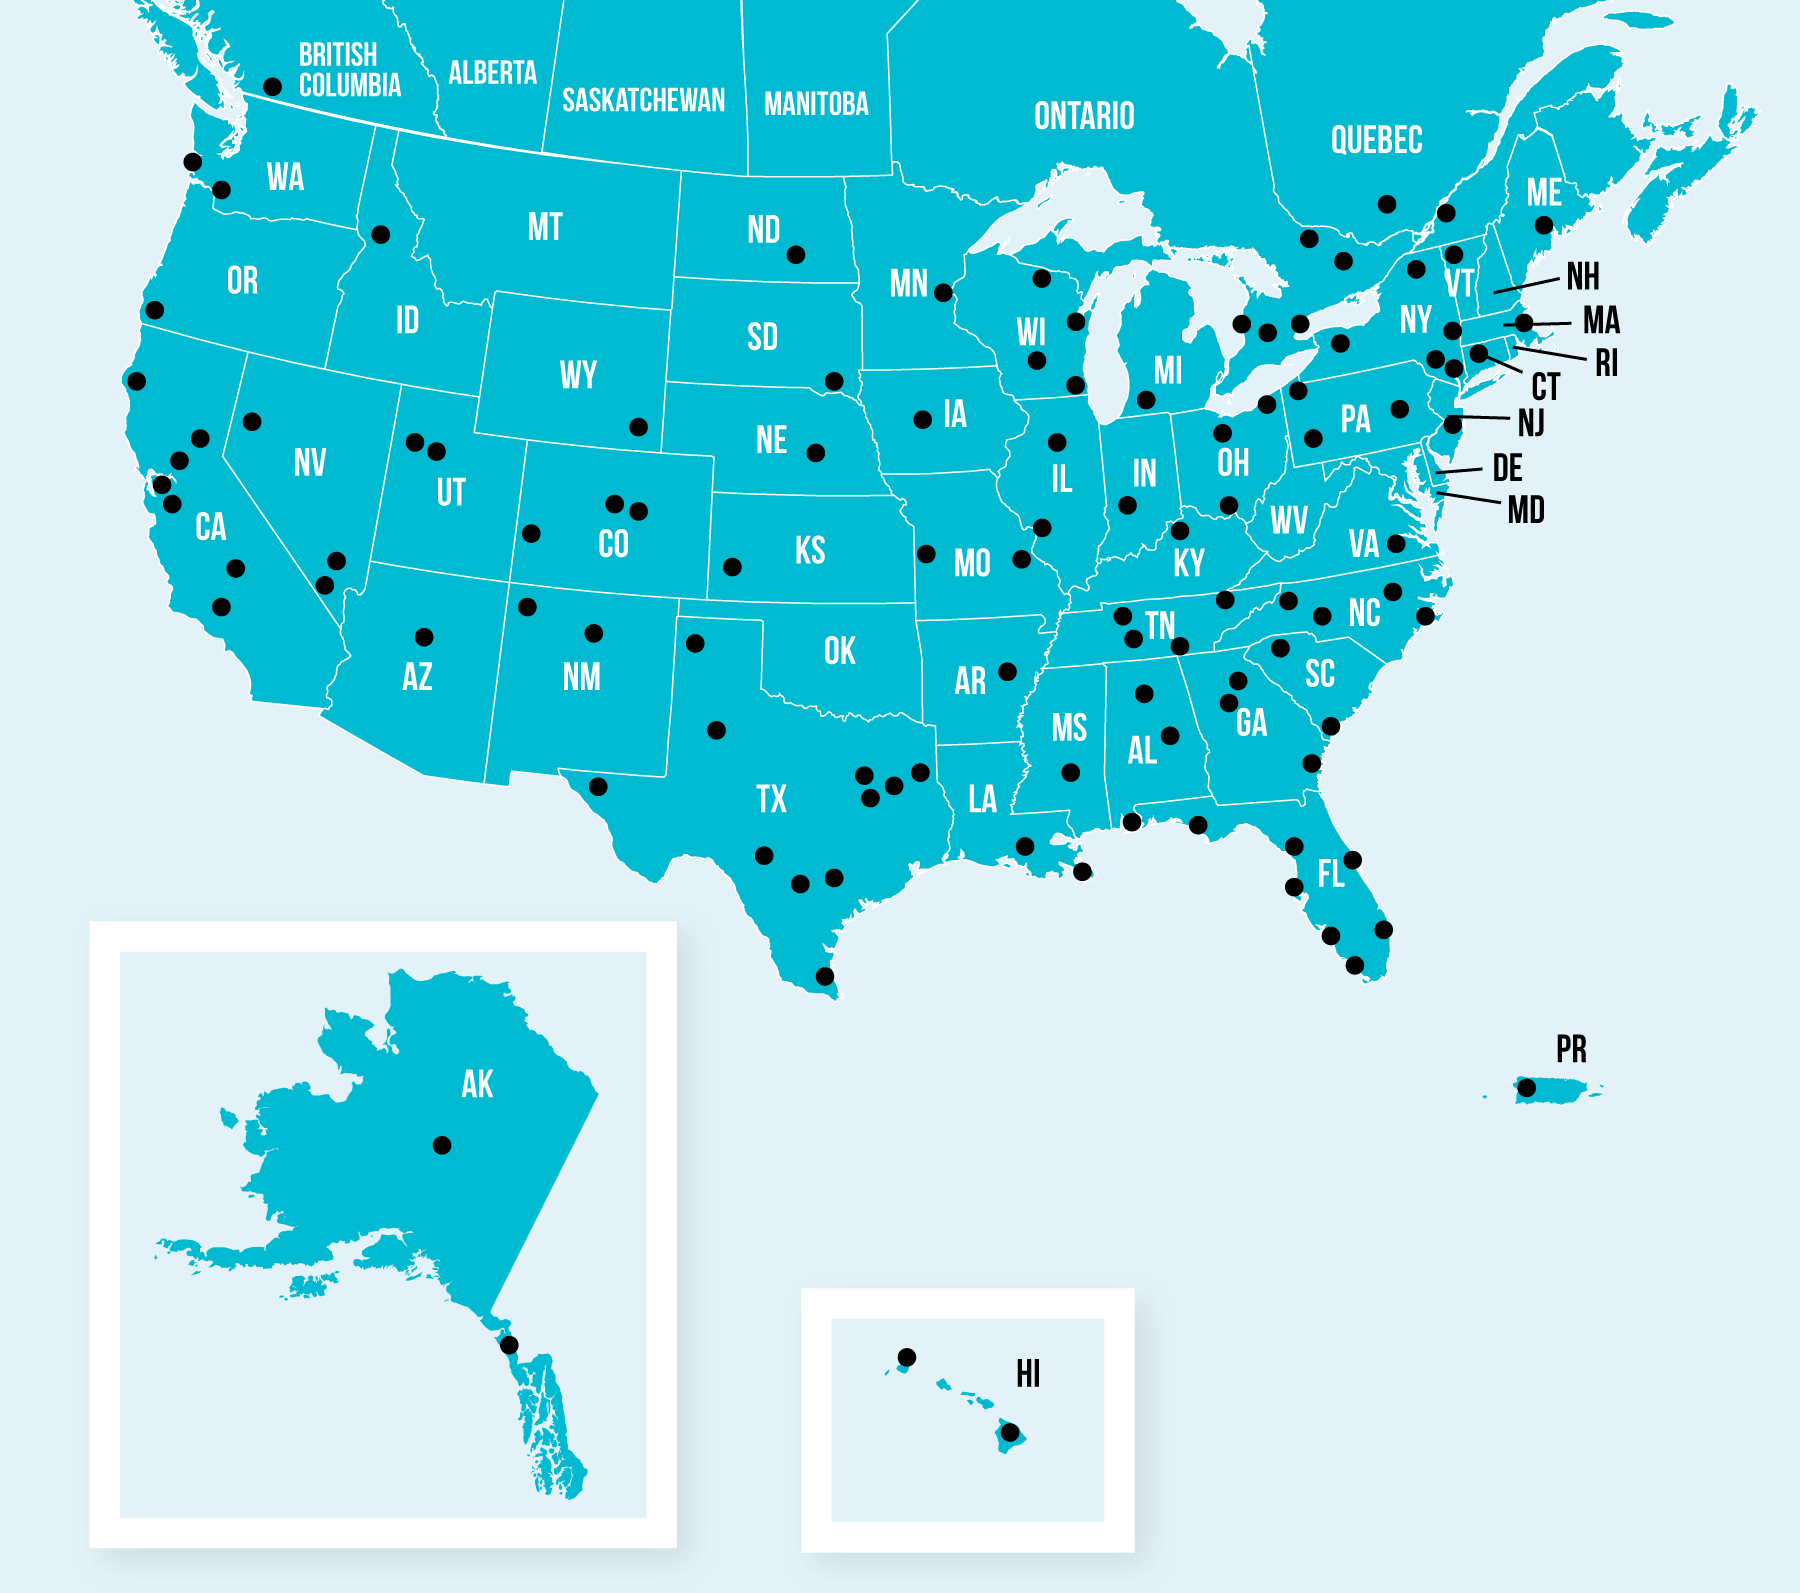
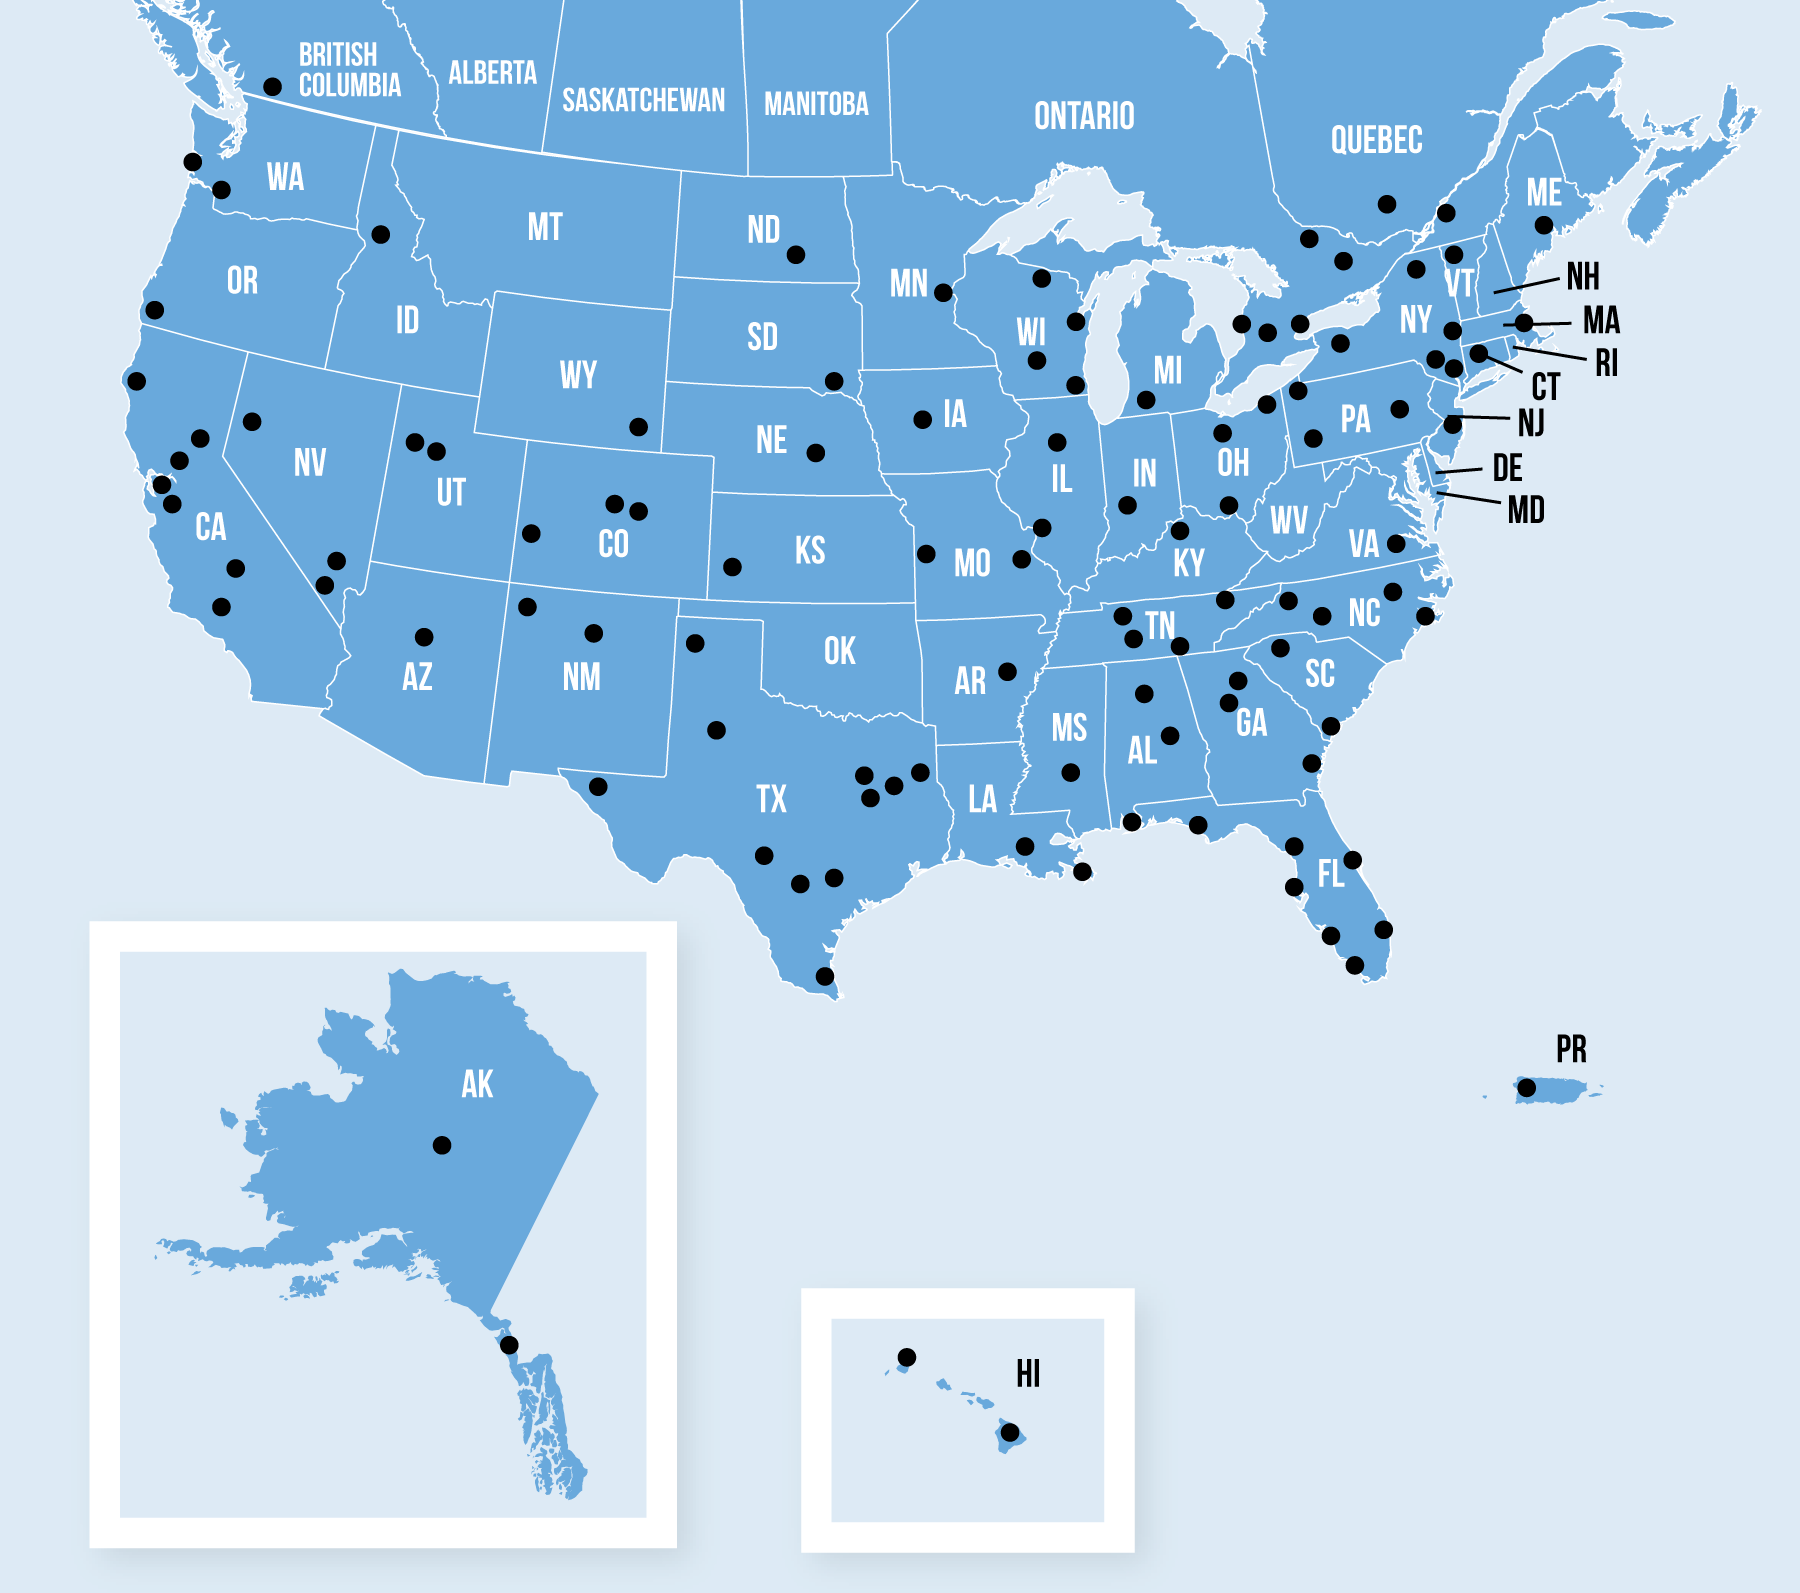
remove images, add images, css

diff --git a/css/main.css b/css/main.css
@@ -6092,13 +6092,13 @@ label[data-error="wrong"]:after {
     display: block;
     width: 72px;
     height: 72px;
-    background: #F68B55 url(../images/icon-arrow-up.svg) no-repeat scroll center center;
+    background: #c4c4c4 url(../images/icon-arrow-up.svg) no-repeat scroll center center;
     background-size: 26px auto;
     text-align: center;
     border-radius: 100%; }
     /* line 29, ../sass/components/_footer.scss */
     .section-footer a.back-to-top:hover {
-      background-color: #f36a25; }
+      background-color: #ababab; }
   /* line 34, ../sass/components/_footer.scss */
   .section-footer.section {
     padding: 4% 0; }
@@ -6179,14 +6179,14 @@ li a.active {
   -moz-transition: all 0.2s ease-in;
   -o-transition: all 0.2s ease-in;
   transition: all 0.2s ease-in;
-  color: #1C3F95;
+  color: #2e7bd0;
   text-decoration: none; }
   /* line 21, ../sass/components/_global.scss */
   a:hover,
   a:link:hover,
   a:visited:hover,
   li a.active:hover {
-    color: #F68B55;
+    color: #000;
     text-decoration: underline; }
 
 /* line 27, ../sass/components/_global.scss */
@@ -6292,14 +6292,14 @@ a.btn, a.btn-large,
 .btn,
 .btn-large {
   box-shadow: none;
-  background-color: #1C3F95;
+  background-color: #2e7bd0;
   color: #fff;
   text-decoration: none; }
   /* line 150, ../sass/components/_global.scss */
   a.btn:hover, a.btn-large:hover,
   .btn:hover,
   .btn-large:hover {
-    background-color: #F68B55;
+    background-color: #c4c4c4;
     text-decoration: none;
     color: #fff; }
 
@@ -6333,7 +6333,7 @@ a.btn, a.btn-large,
     text-align: center; }
   /* line 39, ../sass/components/_hero.scss */
   .section-hero .hero-logo {
-    max-width: 400px;
+    max-width: 500px;
     border-bottom: 1px solid #ccc;
     padding-bottom: 30px;
     margin: 0 auto 30px; }
@@ -6348,12 +6348,16 @@ a.btn, a.btn-large,
   .section-hero .intro {
     margin: 0 auto 40px;
     text-align: center;
-    max-width: 400px; }
+    max-width: 500px;
+    font-size: 25px;
+    font-weight: 100;
+    line-height: 1.4; }
     @media only screen and (max-width: 992px) {
       /* line 56, ../sass/components/_hero.scss */
       .section-hero .intro {
-        max-width: 270px; } }
-  /* line 69, ../sass/components/_hero.scss */
+        max-width: 270px;
+        font-size: 18px; } }
+  /* line 73, ../sass/components/_hero.scss */
   .section-hero .hero-contact,
   .section-hero .hero-address {
     border: 1px solid #ccc;
@@ -6361,7 +6365,7 @@ a.btn, a.btn-large,
     min-width: 270px;
     margin: 0 auto 20px; }
     @media only screen and (min-width: 601px) {
-      /* line 69, ../sass/components/_hero.scss */
+      /* line 73, ../sass/components/_hero.scss */
       .section-hero .hero-contact,
       .section-hero .hero-address {
         width: 270px;
@@ -6370,10 +6374,10 @@ a.btn, a.btn-large,
         height: 110px;
         font-size: 15px; } }
   @media only screen and (min-width: 655px) {
-    /* line 86, ../sass/components/_hero.scss */
+    /* line 90, ../sass/components/_hero.scss */
     .section-hero .hero-address {
       margin-right: 30px; } }
-  /* line 93, ../sass/components/_hero.scss */
+  /* line 97, ../sass/components/_hero.scss */
   .section-hero .icon {
     width: 60px;
     border-right: 1px solid #ccc;
@@ -6382,10 +6386,10 @@ a.btn, a.btn-large,
     height: 108px;
     position: relative; }
     @media only screen and (max-width: 600px) {
-      /* line 93, ../sass/components/_hero.scss */
+      /* line 97, ../sass/components/_hero.scss */
       .section-hero .icon {
         height: 80px; } }
-    /* line 106, ../sass/components/_hero.scss */
+    /* line 110, ../sass/components/_hero.scss */
     .section-hero .icon i.fa {
       font-size: 40px;
       position: absolute;
@@ -6397,20 +6401,20 @@ a.btn, a.btn-large,
       -ms-transform: translateX(-50%) translateY(-50%);
       -webkit-transform: translateX(-50%) translateY(-50%);
       transform: translateX(-50%) translateY(-50%); }
-  /* line 114, ../sass/components/_hero.scss */
+  /* line 118, ../sass/components/_hero.scss */
   .section-hero .details {
     padding: 15px;
     display: inline-block;
     vertical-align: middle; }
-  /* line 121, ../sass/components/_hero.scss */
+  /* line 125, ../sass/components/_hero.scss */
   .section-hero .scroll-link {
     text-align: center;
     margin: 60px 0 0; }
     @media only screen and (max-width: 600px) {
-      /* line 121, ../sass/components/_hero.scss */
+      /* line 125, ../sass/components/_hero.scss */
       .section-hero .scroll-link {
         margin-top: 30px; } }
-    /* line 129, ../sass/components/_hero.scss */
+    /* line 133, ../sass/components/_hero.scss */
     .section-hero .scroll-link a {
       display: inline-block;
       width: 30px;
@@ -6848,7 +6852,7 @@ aside.right-off-canvas-menu a {
   /* line 297, ../sass/components/_off-canvas.scss */
   aside.right-off-canvas-menu a:hover {
     color: #fff;
-    background-color: #F68B55;
+    background-color: #c4c4c4;
     text-decoration: none; }
 
 /* line 9, ../sass/components/_process.scss */
@@ -6859,7 +6863,7 @@ aside.right-off-canvas-menu a {
   min-height: 600px; }
 /* line 16, ../sass/components/_process.scss */
 .section-process .carousel-wrapper {
-  background: #F68B55 url(../images/icon-dragonfly-ghosted.svg) no-repeat scroll -10% 40%;
+  background: #c4c4c4 url(../images/icon-dragonfly-ghosted.svg) no-repeat scroll -10% 40%;
   background-size: 60% auto;
   position: relative; }
 /* line 25, ../sass/components/_process.scss */
@@ -6904,7 +6908,7 @@ aside.right-off-canvas-menu a {
     height: 60px;
     width: 60px;
     margin: 0 150px 0 0;
-    background-color: #F68B55;
+    background-color: #c4c4c4;
     border: 3px solid #fff;
     opacity: 1;
     color: #fff;
@@ -6927,7 +6931,7 @@ aside.right-off-canvas-menu a {
         margin: 0 120px 0 0; } }
     /* line 88, ../sass/components/_process.scss */
     .section-process .swiper-pagination .swiper-pagination-bullet.swiper-pagination-bullet-active {
-      background-color: #1C3F95;
+      background-color: #2e7bd0;
       opacity: 1; }
     /* line 92, ../sass/components/_process.scss */
     .section-process .swiper-pagination .swiper-pagination-bullet:last-child {
@@ -6960,7 +6964,7 @@ aside.right-off-canvas-menu a {
 /* line 122, ../sass/components/_process.scss */
 .swiper-pagination-bullet-active {
   color: #fff;
-  background: #1C3F95; }
+  background: #2e7bd0; }
 
 /* line 127, ../sass/components/_process.scss */
 .slide-content {
@@ -7140,7 +7144,7 @@ h1, h2, h3, h4, h5, h6 {
 /* line 31, ../sass/components/_typography.scss */
 h2.section-title {
   text-align: center;
-  color: #1C3F95;
+  color: #2e7bd0;
   padding-bottom: 40px;
   margin-bottom: 40px;
   border-bottom: 1px solid #ccc; }

diff --git a/index.html b/index.html
@@ -218,27 +218,27 @@
 					<ul class="grid">
 						<li class="grid-item">
 							<p class="description">Bank Sample</p>
-							<a class="thumb" href="images/samples/reimage-america_survey-sample_bank.pdf" target="_blank"><img src="images/catalog-alphabroder-2017.jpg" alt="Bank Sample Survey"></a>
+							<a class="thumb" href="images/samples/reimage-america_survey-sample_bank.pdf" target="_blank"><img src="images/samples/th_sample_bank.jpg" alt="Bank Sample Survey"></a>
 							<a class="btn" href="images/samples/reimage-america_survey-sample_bank.pdf" target="_blank">View Sample</a>
 						</li>
 						<li class="grid-item">
 							<p class="description">Retail Sample</p>
-							<a class="thumb" href="images/samples/reimage-america_survey-sample_retail.pdf" target="_blank"><img src="images/catalog-heritage-2017.jpg" alt="Retail Survey Sample"></a>
+							<a class="thumb" href="images/samples/reimage-america_survey-sample_retail.pdf" target="_blank"><img src="images/samples/th_sample_retail.jpg" alt="Retail Survey Sample"></a>
 							<a href="images/samples/reimage-america_survey-sample_retail.pdf" target="_blank" class="button btn">View Sample</a>
 						</li>
 						<li class="grid-item">
 							<p class="description">Inspection Sample</p>
-							<a class="thumb" href="http://www.sanmar.com/" target="_blank"><img src="images/catalog-sanmar-2017.jpg" alt="Install Inspection Survey Sample"></a>
+							<a class="thumb" href="http://www.sanmar.com/" target="_blank"><img src="images/samples/th_sample_inspection.jpg" alt="Install Inspection Survey Sample"></a>
 							<a href="images/samples/reimage-america_survey-sample_inspection.pdf" target="_blank" class="btn button">View Sample</a>
 						</li>
 						<li class="grid-item">
 							<p class="description">Gas Station Sample</p>
-							<a class="thumb" href="http://www.sanmar.com/" target="_blank"><img src="images/catalog-sanmar-2017.jpg" alt="Gas Station Survey Sample"></a>
+							<a class="thumb" href="images/samples/reimage-america_survey-sample_gas-station.pdf" target="_blank"><img src="images/samples/th_sample_gas-station.jpg" alt="Gas Station Survey Sample"></a>
 							<a href="images/samples/reimage-america_survey-sample_gas-station.pdf" target="_blank" class="btn button">View Sample</a>
 						</li>
 						<li class="grid-item">
 							<p class="description">Restaurant Signage & Electrical Sample</p>
-							<a class="thumb" href="" target="_blank"><img src="images/catalog-sanmar-2017.jpg" alt="Restaurant Survey Sample"></a>
+							<a class="thumb" href="images/samples/reimage-america_survey-sample_restaurant.pdf" target="_blank"><img src="images/samples/th_sample_restaurant.jpg" alt="Restaurant Survey Sample"></a>
 							<a href="images/samples/reimage-america_survey-sample_restaurant.pdf" target="_blank" class="btn button">View Sample</a>
 						</li>
 					</ul>

diff --git a/sass/components/_hero.scss b/sass/components/_hero.scss
@@ -37,7 +37,7 @@
 	
 	// logo
 	.hero-logo {
-		max-width: 400px;
+		max-width: 500px;
 		border-bottom: 1px solid #ccc;
 		padding-bottom: 30px;
 		margin: 0 auto 30px;
@@ -56,10 +56,14 @@
 	.intro {
 		margin: 0 auto 40px;
 		text-align: center;
-		max-width: 400px;
+		max-width: 500px;
+	    font-size: 25px;
+		font-weight: 100;
+		line-height: 1.4;
 		
 		@media #{$medium-and-down} {
 			max-width: 270px;
+			font-size: 18px;
 		}		
 	}
 	

diff --git a/sass/variables/_variables-colors.scss b/sass/variables/_variables-colors.scss
@@ -10,8 +10,8 @@
 
 // Main Site Colors
 
-$primary-color: #1C3F95; // med blue
-$secondary-color: #F68B55; // med orange
+$primary-color: #2e7bd0; // med blue
+$secondary-color: #c4c4c4; // light gray
 
 $gray-dark: #333;
 $gray-medium: #777;
@@ -63,7 +63,7 @@ $text-on-dark-color: #ccc;
 $text-on-light-color: #000;
 
 $link-color: $primary-color;
-$link-hover-color: $secondary-color;
+$link-hover-color: #000;
 $link-visited-color: #000;
 
 
